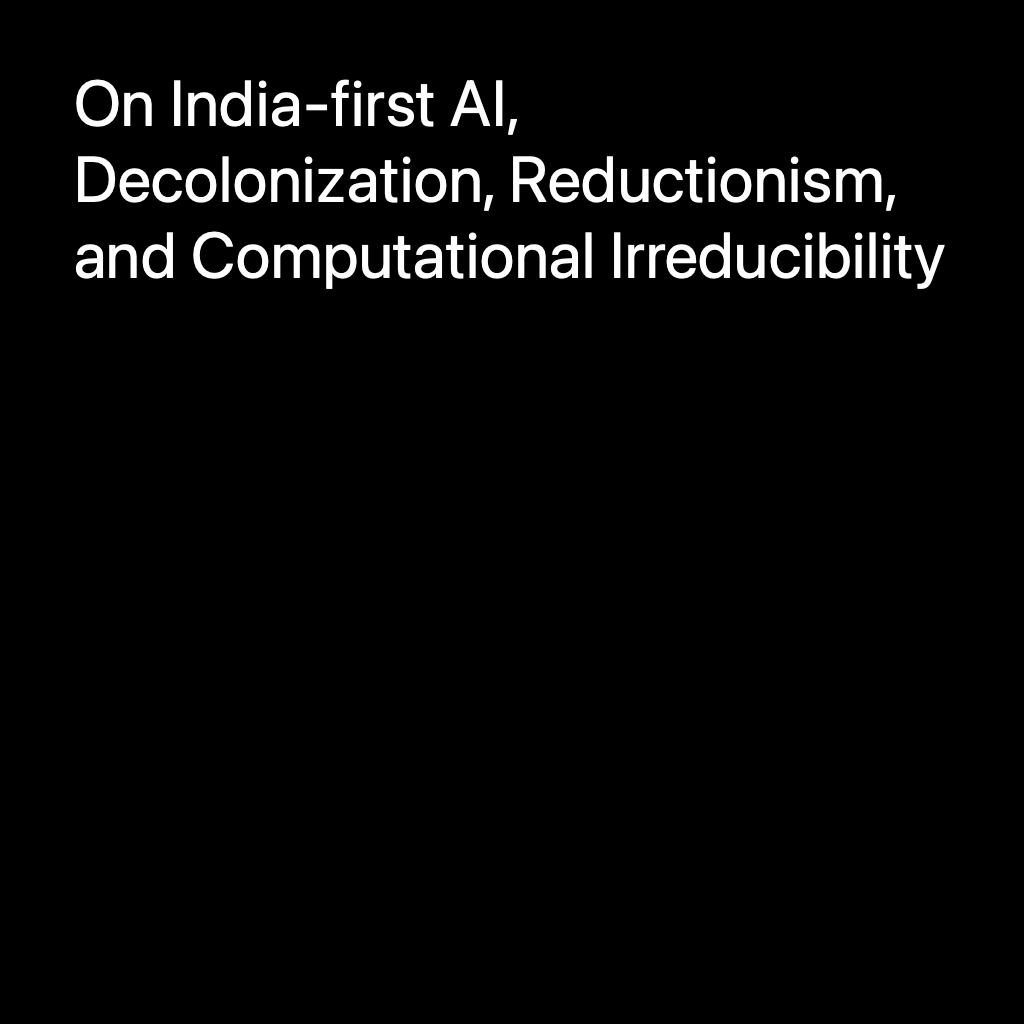
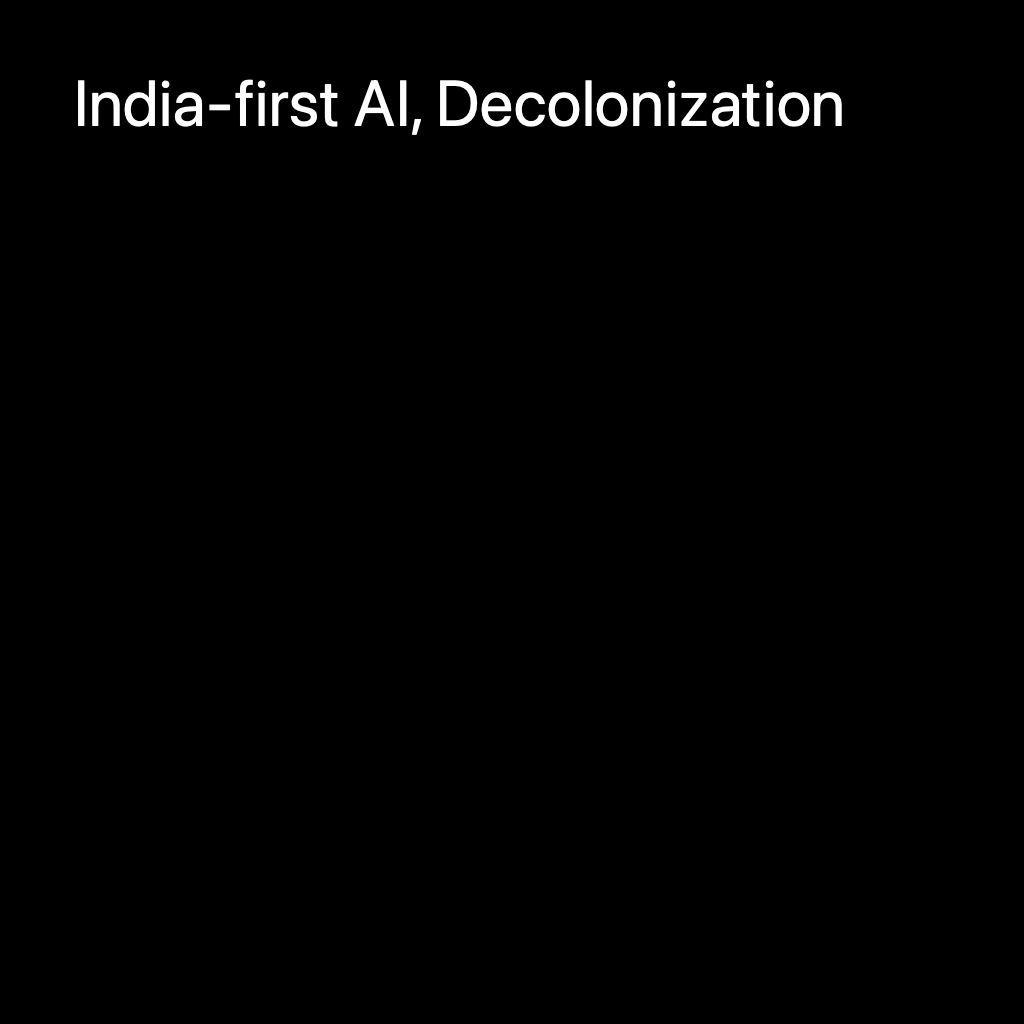
automated upload

Changed region(s): [[0.0625, 0.0625, 0.9375, 0.2812]]

diff --git a/AF9D2B0D-5DA7-4287-8029-A2B663B0D43B/index.html b/AF9D2B0D-5DA7-4287-8029-A2B663B0D43B/index.html
@@ -9,7 +9,7 @@
     <link rel="stylesheet" href="../assets/style.css?sha256=3cc0464065d3f073168511e1307571113ffac06c8fdd5e858d3e0d8d0ef760bd">
     <link rel="preload" href="../planet.json" as="fetch" type="application/json" crossorigin="anonymous">
     <link rel="preload" href="../rss.xml" as="fetch" type="application/rss+xml" crossorigin="anonymous">
-    <title>On India-first AI, Decolonization, Reductionism, and Computational Irreducibility</title>
+    <title>India-first AI, Decolonization</title>
     <script type="text/javascript" src="../assets/utils.js"></script>
     <script>
       let userAgentRegex = /Planet\/\S*/;
@@ -70,17 +70,17 @@
     
 <!-- Open Graph Tags -->
 <meta property="og:type" content="article" />
-<meta property="og:title" content="On India-first AI, Decolonization, Reductionism, and Computational Irreducibility" />
+<meta property="og:title" content="India-first AI, Decolonization" />
 <meta property="og:site_name" content="&#xA2A;&#xA4D;&#xA30;&#xA2D;&#xA1A;&#xA3F;&#xA70;&#xA24;&#xA28;&#xA30;&#xA70;&#xA27;&#xA3E;&#xA35;&#xA3E;" />
 <meta property="og:description" content="&#xA74; &#xA38;&#xA24;&#xA3F; &#xA28;&#xA3E;&#xA2E;&#xA41; &#xA15;&#xA30;&#xA24;&#xA3E; &#xA2A;&#xA41;&#xA30;&#xA16;&#xA41; &#xA28;&#xA3F;&#xA30;&#xA2D;&#xA09; &#xA28;&#xA3F;&#xA30;&#xA35;&#xA48;&#xA30;&#xA41; &#xA05;&#xA15;&#xA3E;&#xA32; &#xA2E;&#xA42;&#xA30;&#xA24;&#xA3F; &#xA05;&#xA1C;&#xA42;&#xA28;&#xA40; &#xA38;&#xA48;&#xA2D;&#xA70; &#xA17;&#xA41;&#xA30; &#xA2A;&#xA4D;&#xA30;&#xA38;&#xA3E;&#xA26;&#xA3F; &#x965;" />
 <meta property="article:published_time" content="2023-06-11T22:56:28-05:00" />
 
   <meta property="og:image" content="https://retroflex.xyz/another/_cover.png" />
-  <meta property="og:image:alt" content="On India-first AI, Decolonization, Reductionism, and Computational Irreducibility" />
+  <meta property="og:image:alt" content="India-first AI, Decolonization" />
 
 <meta name="twitter:card" content="summary" />
 <meta name="twitter:site" content="&#xA2A;&#xA4D;&#xA30;&#xA2D;&#xA1A;&#xA3F;&#xA70;&#xA24;&#xA28;&#xA30;&#xA70;&#xA27;&#xA3E;&#xA35;&#xA3E;" />
-<meta name="twitter:title" content="On India-first AI, Decolonization, Reductionism, and Computational Irreducibility" />
+<meta name="twitter:title" content="India-first AI, Decolonization" />
 <meta name="twitter:description" content="&#xA74; &#xA38;&#xA24;&#xA3F; &#xA28;&#xA3E;&#xA2E;&#xA41; &#xA15;&#xA30;&#xA24;&#xA3E; &#xA2A;&#xA41;&#xA30;&#xA16;&#xA41; &#xA28;&#xA3F;&#xA30;&#xA2D;&#xA09; &#xA28;&#xA3F;&#xA30;&#xA35;&#xA48;&#xA30;&#xA41; &#xA05;&#xA15;&#xA3E;&#xA32; &#xA2E;&#xA42;&#xA30;&#xA24;&#xA3F; &#xA05;&#xA1C;&#xA42;&#xA28;&#xA40; &#xA38;&#xA48;&#xA2D;&#xA70; &#xA17;&#xA41;&#xA30; &#xA2A;&#xA4D;&#xA30;&#xA38;&#xA3E;&#xA26;&#xA3F; &#x965;" />
 
   <meta name="twitter:image" content="https://retroflex.xyz/another/_cover.png" />
@@ -158,7 +158,7 @@
       <div class="main">
       
 
-<h1>On India-first AI, Decolonization, Reductionism, and Computational Irreducibility</h1>
+<h1>India-first AI, Decolonization</h1>
 <div class="date">Jun 11, 2023 at 10:56:28 PM</div>
 <div class="content">
   

diff --git a/another/index.html b/another/index.html
@@ -9,7 +9,7 @@
     <link rel="stylesheet" href="../assets/style.css?sha256=3cc0464065d3f073168511e1307571113ffac06c8fdd5e858d3e0d8d0ef760bd">
     <link rel="preload" href="../planet.json" as="fetch" type="application/json" crossorigin="anonymous">
     <link rel="preload" href="../rss.xml" as="fetch" type="application/rss+xml" crossorigin="anonymous">
-    <title>On India-first AI, Decolonization, Reductionism, and Computational Irreducibility</title>
+    <title>India-first AI, Decolonization</title>
     <script type="text/javascript" src="../assets/utils.js"></script>
     <script>
       let userAgentRegex = /Planet\/\S*/;
@@ -70,17 +70,17 @@
     
 <!-- Open Graph Tags -->
 <meta property="og:type" content="article" />
-<meta property="og:title" content="On India-first AI, Decolonization, Reductionism, and Computational Irreducibility" />
+<meta property="og:title" content="India-first AI, Decolonization" />
 <meta property="og:site_name" content="&#xA2A;&#xA4D;&#xA30;&#xA2D;&#xA1A;&#xA3F;&#xA70;&#xA24;&#xA28;&#xA30;&#xA70;&#xA27;&#xA3E;&#xA35;&#xA3E;" />
 <meta property="og:description" content="&#xA74; &#xA38;&#xA24;&#xA3F; &#xA28;&#xA3E;&#xA2E;&#xA41; &#xA15;&#xA30;&#xA24;&#xA3E; &#xA2A;&#xA41;&#xA30;&#xA16;&#xA41; &#xA28;&#xA3F;&#xA30;&#xA2D;&#xA09; &#xA28;&#xA3F;&#xA30;&#xA35;&#xA48;&#xA30;&#xA41; &#xA05;&#xA15;&#xA3E;&#xA32; &#xA2E;&#xA42;&#xA30;&#xA24;&#xA3F; &#xA05;&#xA1C;&#xA42;&#xA28;&#xA40; &#xA38;&#xA48;&#xA2D;&#xA70; &#xA17;&#xA41;&#xA30; &#xA2A;&#xA4D;&#xA30;&#xA38;&#xA3E;&#xA26;&#xA3F; &#x965;" />
 <meta property="article:published_time" content="2023-06-11T22:56:28-05:00" />
 
   <meta property="og:image" content="https://retroflex.xyz/another/_cover.png" />
-  <meta property="og:image:alt" content="On India-first AI, Decolonization, Reductionism, and Computational Irreducibility" />
+  <meta property="og:image:alt" content="India-first AI, Decolonization" />
 
 <meta name="twitter:card" content="summary" />
 <meta name="twitter:site" content="&#xA2A;&#xA4D;&#xA30;&#xA2D;&#xA1A;&#xA3F;&#xA70;&#xA24;&#xA28;&#xA30;&#xA70;&#xA27;&#xA3E;&#xA35;&#xA3E;" />
-<meta name="twitter:title" content="On India-first AI, Decolonization, Reductionism, and Computational Irreducibility" />
+<meta name="twitter:title" content="India-first AI, Decolonization" />
 <meta name="twitter:description" content="&#xA74; &#xA38;&#xA24;&#xA3F; &#xA28;&#xA3E;&#xA2E;&#xA41; &#xA15;&#xA30;&#xA24;&#xA3E; &#xA2A;&#xA41;&#xA30;&#xA16;&#xA41; &#xA28;&#xA3F;&#xA30;&#xA2D;&#xA09; &#xA28;&#xA3F;&#xA30;&#xA35;&#xA48;&#xA30;&#xA41; &#xA05;&#xA15;&#xA3E;&#xA32; &#xA2E;&#xA42;&#xA30;&#xA24;&#xA3F; &#xA05;&#xA1C;&#xA42;&#xA28;&#xA40; &#xA38;&#xA48;&#xA2D;&#xA70; &#xA17;&#xA41;&#xA30; &#xA2A;&#xA4D;&#xA30;&#xA38;&#xA3E;&#xA26;&#xA3F; &#x965;" />
 
   <meta name="twitter:image" content="https://retroflex.xyz/another/_cover.png" />
@@ -158,7 +158,7 @@
       <div class="main">
       
 
-<h1>On India-first AI, Decolonization, Reductionism, and Computational Irreducibility</h1>
+<h1>India-first AI, Decolonization</h1>
 <div class="date">Jun 11, 2023 at 10:56:28 PM</div>
 <div class="content">
   

diff --git a/index.html b/index.html
@@ -257,7 +257,7 @@
     <!--<div class="item-hero-image"><a href="AF9D2B0D-5DA7-4287-8029-A2B663B0D43B/"><img src="AF9D2B0D-5DA7-4287-8029-A2B663B0D43B/https://retroflex.xyz/another/_cover.png"></a></div>-->
     
     <div class="item-main">
-      <div class="item-title"><a href="./another/">On India-first AI, Decolonization, Reductionism, and Computational Irreducibility</a></div>
+      <div class="item-title"><a href="./another/">India-first AI, Decolonization</a></div>
       <div class="item-info">
         <div class="item-date">Jun 11, 2023</div>
         

diff --git a/page1.html b/page1.html
@@ -257,7 +257,7 @@
     <!--<div class="item-hero-image"><a href="AF9D2B0D-5DA7-4287-8029-A2B663B0D43B/"><img src="AF9D2B0D-5DA7-4287-8029-A2B663B0D43B/https://retroflex.xyz/another/_cover.png"></a></div>-->
     
     <div class="item-main">
-      <div class="item-title"><a href="./another/">On India-first AI, Decolonization, Reductionism, and Computational Irreducibility</a></div>
+      <div class="item-title"><a href="./another/">India-first AI, Decolonization</a></div>
       <div class="item-info">
         <div class="item-date">Jun 11, 2023</div>
         
